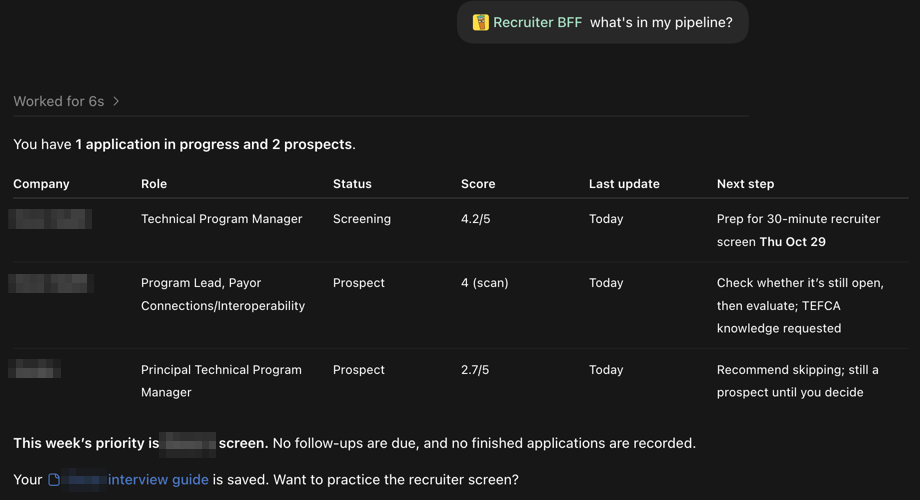
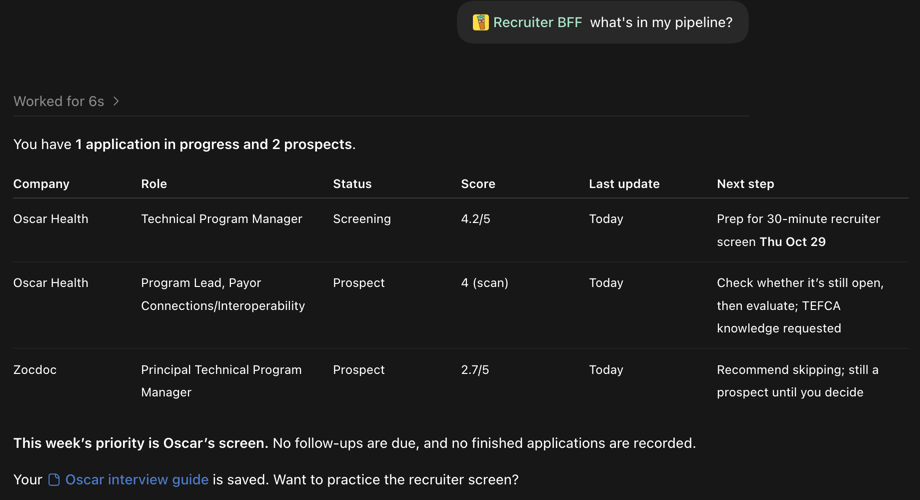
README: use the unredacted screenshots
Same crops and sizes, real company names visible; drop the
'names are blurred' line and cache-bust the image URLs.

diff --git a/README.md b/README.md
@@ -56,17 +56,17 @@ Paste a posting, or a link, and ask "should I apply?"
 
 ## See it in Claude and ChatGPT
 
-Real answers from a real run. Dana Brooks is a demo job seeker, a senior project manager in New York. The postings, scores, and skips are real. Company names are blurred.
+Real answers from a real run. Dana Brooks is a demo job seeker, a senior project manager in New York. The postings, scores, and skips are real.
 
-<p align="center"><img src="https://github.com/kevinmmiddleton/recruiter-bff/raw/main/assets/brand/marketing/real-chatgpt-skip.png" alt="ChatGPT desktop app. Asked whether to apply to a Principal Technical Program Manager role in the tracker, Recruiter BFF answers 2.7 out of 5, I'd skip this one, names the strongest match, and lists the five scores. The company name is blurred." width="720"></p>
+<p align="center"><img src="https://github.com/kevinmmiddleton/recruiter-bff/raw/main/assets/brand/marketing/real-chatgpt-skip.png?v=2" alt="ChatGPT desktop app. Asked whether to apply to a Principal Technical Program Manager role in the tracker, Recruiter BFF answers 2.7 out of 5, I'd skip this one, names the strongest match, and lists the five scores." width="720"></p>
 
 **It tells you to skip, too.** 2.7 out of 5 in ChatGPT, with the one strong match it found.
 
-<p align="center"><img src="https://github.com/kevinmmiddleton/recruiter-bff/raw/main/assets/brand/marketing/real-claude-skip.png" alt="Claude desktop app. Asked with /evaluate-role about a Program Lead role in the tracker, it answers 3.2 out of 5, weak fit, probably skip. The posting has been open about 19 weeks and wants deep TEFCA knowledge the resume doesn't show. The company name is blurred." width="720"></p>
+<p align="center"><img src="https://github.com/kevinmmiddleton/recruiter-bff/raw/main/assets/brand/marketing/real-claude-skip.png?v=2" alt="Claude desktop app. Asked with /evaluate-role about a Program Lead role in the tracker, it answers 3.2 out of 5, weak fit, probably skip. The posting has been open about 19 weeks and wants deep TEFCA knowledge the resume doesn't show." width="720"></p>
 
 **Same straight answer in Claude.** Open 19 weeks, and missing the one thing the posting wants most.
 
-<p align="center"><img src="https://github.com/kevinmmiddleton/recruiter-bff/raw/main/assets/brand/marketing/real-chatgpt-pipeline.png" alt="ChatGPT desktop app. Asked what's in my pipeline, Recruiter BFF shows a table of three roles with status, score, last update, and next step: one in screening at 4.2 out of 5 with a recruiter screen Thursday, and two prospects. Company names are blurred." width="720"></p>
+<p align="center"><img src="https://github.com/kevinmmiddleton/recruiter-bff/raw/main/assets/brand/marketing/real-chatgpt-pipeline.png?v=2" alt="ChatGPT desktop app. Asked what's in my pipeline, Recruiter BFF shows a table of three roles with status, score, last update, and next step: one in screening at 4.2 out of 5 with a recruiter screen Thursday, and two prospects." width="720"></p>
 
 **One tracker, either app.** Claude built this tracker, and ChatGPT reads the same plain files.
 
